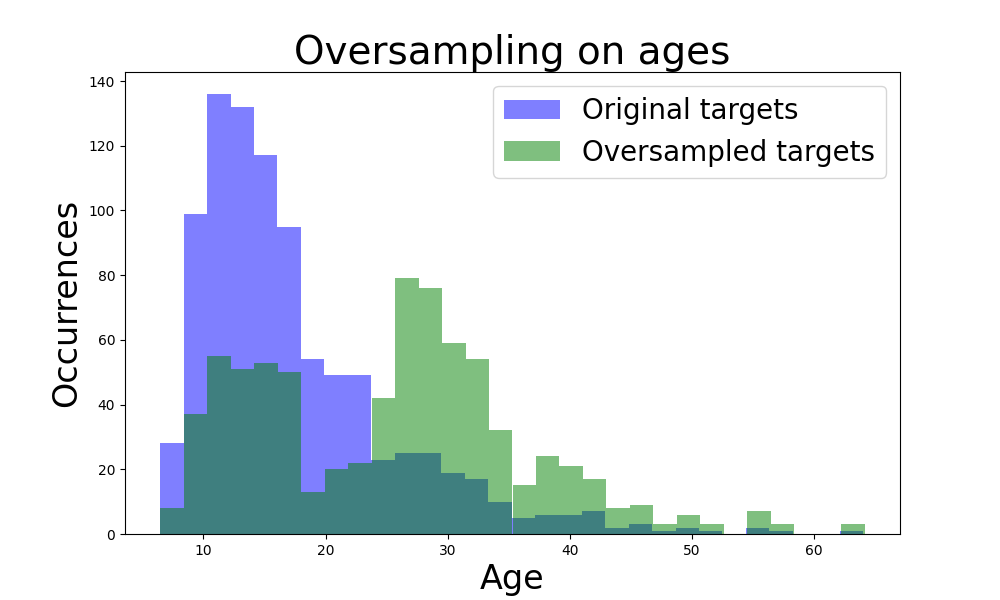
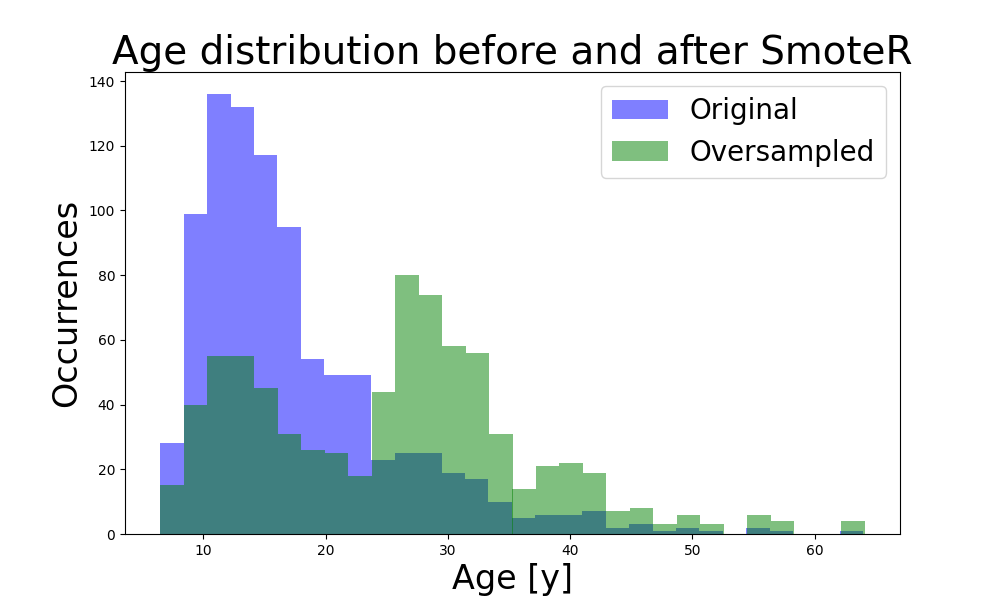
cleaned data

diff --git a/plots/oversampling_hist.py b/plots/oversampling_hist.py
@@ -12,13 +12,13 @@ _, targets_os = get_data(r'../data/abide_globals.csv',
 plt.figure(figsize=(10, 6))
 
 plt.hist(targets, bins=30, color='blue',
-         alpha=0.5, edgecolor=None, label='Original targets')
+         alpha=0.5, edgecolor=None, label='Original')
 
 plt.hist(targets_os, bins=30, color='green',
-         alpha=0.5, edgecolor=None, label='Oversampled targets')
+         alpha=0.5, edgecolor=None, label='Oversampled')
 
-plt.title('Oversampling on ages', fontsize = 28)
-plt.xlabel('Age', fontsize = 24)
+plt.title('Age distribution before and after SmoteR', fontsize = 28)
+plt.xlabel('Age [y]', fontsize = 24)
 plt.ylabel('Occurrences', fontsize = 24)
 
 plt.legend(fontsize = 20)

diff --git a/plots/random_features_scatter.py b/plots/random_features_scatter.py
@@ -4,7 +4,12 @@ import matplotlib.pyplot as plt
 
 data = pd.read_csv(r'../data/abide.csv', delimiter=';')
 ages = data['AGE_AT_SCAN'].values
-# print('max and min age : 'np.min(ages), np.max(ages))
+# dx_group = data['DX_GROUP'].values
+# control, experimental = np.count_nonzero(dx_group == -1), np.count_nonzero(dx_group == 1)
+# print(control, experimental)
+# print(np.mean(ages))
+# print(np.quantile(ages, 0.95))
+# print('max and min age : ', np.min(ages), np.max(ages))
 # selects 4 random features excluding patient info like age itself or FIQ
 random_features = data.iloc[:, 5:].sample(n=4, axis=1, random_state=12)
 

diff --git a/plots/age_hist.py b/plots/age_hist.py
@@ -28,8 +28,8 @@ for patch in bp['boxes']:
     patch.set_facecolor(mcolors.to_rgba('royalblue', alpha=0.7))
 
 ax.set_xticklabels(sorted_sites, fontsize = 14, rotation = 45)
-ax.set_xlabel('Site', fontsize = 20)
-ax.set_ylabel('Age [years]', fontsize = 20)
+ax.set_xlabel('Site', fontsize = 24)
+ax.set_ylabel('Age [years]', fontsize = 24)
 ax.grid(False)
 
 ax_hist = ax.twiny() # for the histogram
